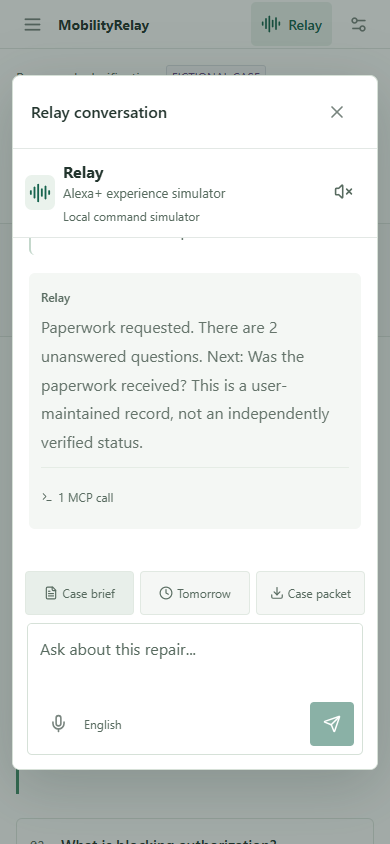
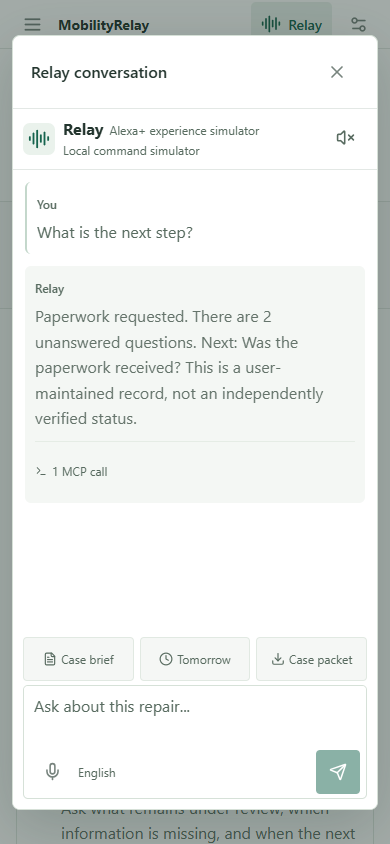
Compact workspace and prioritize Relay conversation

diff --git a/src/styles.css b/src/styles.css
@@ -21,7 +21,7 @@ h1, h2, h3, p { margin-top: 0; }
 .icon-button:hover:not(:disabled) { background: #eaf0ec; color: var(--green); }
 .text-button { display: inline-flex; align-items: center; justify-content: center; gap: 5px; background: transparent; color: var(--green); padding: 6px 0; font-size: 14px; font-weight: 600; }
 .text-button:hover:not(:disabled) { text-decoration: underline; }
-.app-shell { display: grid; grid-template-columns: 246px minmax(0,1fr); min-height: 100vh; }
+.app-shell { display: grid; grid-template-columns: 228px minmax(0,1fr); min-height: 100vh; }
 .sidebar { background: #f5f7f5; border-right: 1px solid var(--line); padding: 25px 16px 16px; display: flex; flex-direction: column; position: sticky; top: 0; height: 100vh; overflow-y: auto; }
 .brand { display: flex; gap: 9px; align-items: center; min-width: 0; }
 .brand-mark { width: 40px; height: 40px; flex: 0 0 40px; display: inline-flex; align-items: center; justify-content: center; color: #fff; background: var(--green); border-radius: 7px; }
@@ -53,14 +53,14 @@ h1, h2, h3, p { margin-top: 0; }
 .local-status > span:nth-child(2) { flex: 1; }
 .local-status small { display: block; font-size: 13px; color: #96a097; margin-top: 4px; }
 .workspace { min-width: 0; }
-.topbar { min-height: 60px; padding: 10px 32px; border-bottom: 1px solid var(--line); display: flex; align-items: center; justify-content: space-between; gap: 12px; font-size: 14px; color: #849087; }
+.topbar { min-height: 60px; padding: 10px 24px; border-bottom: 1px solid var(--line); display: flex; align-items: center; justify-content: space-between; gap: 12px; font-size: 14px; color: #849087; }
 .topbar > div { display: flex; align-items: center; gap: 12px; min-width: 0; }
 .topbar > div:first-child { flex: 1; }
 .topbar > div:last-child { flex: 0 0 auto; }
 .mobile-brand { flex: 0 0 auto; }
 .topbar strong { font-weight: 500; color: #43594b; overflow-wrap: anywhere; }
 .mcp-status { display: flex; align-items: center; gap: 6px; white-space: nowrap; }
-.case-heading { display: flex; align-items: center; justify-content: space-between; padding: 29px 32px 24px; gap: 20px; }
+.case-heading { display: flex; align-items: center; justify-content: space-between; padding: 29px 24px 24px; gap: 20px; }
 .case-heading > div:first-child { min-width: 0; }
 .eyebrow { display: flex; gap: 10px; align-items: center; flex-wrap: wrap; font-size: 14px; color: #76877c; margin-bottom: 10px; }
 .fictional-badge { font-size: 12px; padding: 3px 5px; border: 1px solid #dcdfe6; border-radius: 3px; color: #857898; background: #faf8fc; }
@@ -70,13 +70,13 @@ h1, h2, h3, p { margin-top: 0; }
 .person-initial { width: 20px; height: 20px; display: inline-flex; align-items: center; justify-content: center; background: #efeaf6; border-radius: 50%; color: #7d6899; font-size: 13px; }
 .separator { margin: 0 3px; color: #c3cac3; }
 .heading-actions { display: flex; gap: 9px; flex: 0 0 auto; }
-.case-metrics { display: grid; grid-template-columns: 1.35fr 1fr 1fr 1fr; padding: 20px 32px; background: #fbfcfb; border-top: 1px solid var(--line); border-bottom: 1px solid var(--line); gap: 22px; }
+.case-metrics { display: grid; grid-template-columns: 1.35fr 1fr 1fr 1fr; padding: 20px 24px; background: #fbfcfb; border-top: 1px solid var(--line); border-bottom: 1px solid var(--line); gap: 22px; }
 .case-metrics > div { border-right: 1px solid var(--line); padding-right: 18px; min-width: 0; }
 .case-metrics > div:last-child { border-right: none; }
 .case-metrics > div > span { display: block; font-size: 13px; color: #829086; margin-bottom: 9px; }
 .case-metrics strong { font-size: 16px; font-weight: 600; display: flex; gap: 8px; align-items: baseline; flex-wrap: wrap; line-height: 1.6; }
 .case-metrics small { font-size: 13px; color: #8b978e; font-weight: 400; }
-.content-layout { display: grid; grid-template-columns: minmax(0,1fr) 330px; gap: 28px; padding: 0 32px 30px; align-items: start; }
+.content-layout { display: grid; grid-template-columns: minmax(0,1fr) 340px; gap: 20px; padding: 0 24px 30px; align-items: start; }
 .case-content { min-width: 0; }
 .tabs { display: flex; gap: 22px; border-bottom: 1px solid var(--line); min-height: 58px; margin-bottom: 25px; overflow-x: auto; }
 .tabs button { background: none; border-bottom: 2px solid transparent; padding: 18px 0 15px; font-size: 14px; white-space: nowrap; display: flex; gap: 6px; align-items: center; color: #7d8980; }
@@ -147,10 +147,10 @@ h1, h2, h3, p { margin-top: 0; }
 .assistant-heading .simulator-label { display: block; font-size: 14px; line-height: 1.5; color: #586c60; margin-bottom: 3px; overflow-wrap: anywhere; }
 .conversation { overflow-y: auto; flex: 1; padding: 16px; min-height: 180px; }
 .assistant-empty p { font-size: 14px; color: #93a198; }
-.message { margin-bottom: 18px; padding: 12px 12px 10px; background: #f4f7f4; border-radius: 6px; overflow-wrap: anywhere; }
+.message { margin-bottom: 12px; padding: 10px; background: #f4f7f4; border-radius: 6px; overflow-wrap: anywhere; }
 .message.message-user { background: #fff; border-left: 2px solid #c3d7cb; padding-left: 10px; }
 .message-author { font-size: 12px; color: #84a08b; font-weight: 600; }
-.message p { font-size: 14px; color: #54705e; line-height: 1.8; margin: 7px 0 0; white-space: pre-wrap; }
+.message p { font-size: 14px; color: #54705e; line-height: 1.6; margin: 6px 0 0; white-space: pre-wrap; }
 .message.message-user p { color: var(--muted); }
 .tool-trace { margin-top: 10px; border-top: 1px solid #e5ece5; padding-top: 7px; color: #8b9b90; font-size: 12px; }
 .tool-trace summary { display: flex; gap: 5px; align-items: center; cursor: pointer; font-size: 12px; }
@@ -275,7 +275,7 @@ h1, h2, h3, p { margin-top: 0; }
 .case-footer .text-button { color: #874c45; }
 .mode-notice.warning { color: #79550e; }
 input::placeholder, textarea::placeholder { color: var(--muted); }
-@media (min-width: 1600px) { .content-layout { grid-template-columns: minmax(0,1fr) 360px; gap: 40px; } .workspace { max-width: 1800px; } }
+@media (min-width: 1600px) { .content-layout { grid-template-columns: minmax(0,1fr) 360px; gap: 24px; } .workspace { max-width: 1800px; } }
 @media (max-width: 1200px) { .app-shell { grid-template-columns: 220px minmax(0,1fr); } .content-layout { gap: 20px; padding: 0 24px 24px; grid-template-columns: minmax(0,1fr) 292px; } .topbar, .case-heading { padding-left: 24px; padding-right: 24px; } .case-metrics { padding-left: 24px; padding-right: 24px; gap: 15px; } .case-heading { flex-wrap: wrap; } .tabs { gap: 15px; } .assistant-commands { padding: 10px; } .question-actions { gap: 7px; } }
 @media (max-width: 1000px) { .content-layout { grid-template-columns: minmax(0,1fr); } .assistant { position: static; height: 520px; max-height: none; margin-top: 0; } .case-metrics { grid-template-columns: 1fr 1fr; row-gap: 20px; } .case-metrics > div:nth-child(2) { border-right: 0; } .question-item p { font-size: 14px; } }
 @media (max-width: 760px) { .app-shell { grid-template-columns: minmax(0,1fr); } .sidebar { display: none; } .sidebar.mobile-open { display: flex; position: fixed; z-index: 30; width: 280px; left: 0; top: 0; height: 100dvh; } .sidebar-scrim { display: block; position: fixed; inset: 0; background: #19342666; z-index: 29; } .mobile-only { display: inline-flex; } .brand .mobile-only { margin-left: auto; } .topbar { padding: 9px 16px; gap: 8px; font-size: 13px; } .topbar > div { gap: 7px; } .mcp-status { font-size: 12px; } .case-heading { padding: 24px 20px 22px; gap: 20px; } .case-heading h1 { font-size: 26px; } .heading-actions { width: 100%; } .heading-actions > button { flex: 1; font-size: 14px; } .case-metrics { padding: 18px 20px; column-gap: 15px; } .case-metrics strong { font-size: 15px; } .case-metrics small { font-size: 12px; } .case-metrics > div { padding-right: 10px; } .content-layout { padding: 0 20px 25px; gap: 22px; } .tabs { gap: 22px; margin-bottom: 23px; } .tabs button { font-size: 14px; min-height: 54px; } .next-step { padding-left: 14px; } .next-step h2 { font-size: 20px; } .question-item { padding: 15px 13px; gap: 9px; } .question-actions > button:not(.icon-button) { font-size: 13px; } .question-actions .icon-button { width: 36px; height: 36px; flex-basis: 36px; } .question-actions > button:first-child { margin-right: 0; } .section-title .text-button { font-size: 13px; } .evidence-top { flex-direction: column; gap: 5px; } .evidence-bottom { flex-wrap: wrap; } .request-row { flex-wrap: wrap; gap: 9px; } .request-row > span:nth-child(2) { flex-basis: calc(100% - 45px); } .request-row > .status-badge { margin-left: 32px; } .request-row > svg:last-child { margin-left: auto; } .contact-row { flex-wrap: wrap; } .contact-role { text-align: left; margin-left: 47px; } .contact-row > svg:last-child { margin-left: auto; } .followup-row { flex-wrap: wrap; gap: 9px; } .followup-row > div { flex-basis: calc(100% - 45px); } .followup-row > .icon-button:first-of-type { margin-left: 31px; } .alert { margin: 12px 20px 0; } .modal { max-width: calc(100vw - 24px); max-height: calc(100dvh - 24px); } .dialog-form, .settings-content { padding: 18px; } .form-grid { grid-template-columns: 1fr; gap: 0; } .request-footer { flex-wrap: wrap; } .assistant { height: 530px; } .message p { font-size: 15px; } .assistant-commands button { font-size: 13px; } .modal-header { padding: 14px 18px; } .modal-header h2 { font-size: 16px; } }
@@ -367,22 +367,24 @@ input::placeholder, textarea::placeholder { color: var(--muted); }
 .sidebar-bottom { margin-top: 0; padding-top: 8px; }
 .local-status { padding-top: 10px; margin-top: 4px; }
 .topbar { min-height: 48px; padding-block: 2px; }
-.case-heading { padding-block: 12px; gap: 14px; }
+.case-heading { padding-block: 10px; gap: 14px; }
 .case-heading h1 { margin-bottom: 4px; font-size: 24px; }
 .eyebrow { margin-bottom: 4px; }
 .heading-actions > .compact-action { flex: 0 0 44px; min-width: 44px; width: 44px; padding: 0; }
-.case-metrics { padding-block: 8px; gap: 12px; }
+.case-metrics { padding-block: 6px; gap: 12px; }
 .case-metrics > div > span { margin-bottom: 3px; }
 .case-metrics strong { line-height: 1.4; }
-.content-layout { gap: 24px; }
+.content-layout { gap: 20px; }
 .content-layout.relay-drawer-layout { grid-template-columns: minmax(0, 1fr); }
-.tabs { min-height: 48px; margin-bottom: 14px; }
+.tabs { min-height: 48px; margin-bottom: 10px; }
 .tabs button { padding-block: 12px 10px; }
-.questions > .section-title { margin-bottom: 10px; }
-.question-item.next-step { padding-top: 4px; }
+.questions > .section-title { margin-bottom: 8px; }
+.question-item.next-step { padding: 4px 0 12px 14px; margin-bottom: 16px; }
 .question-item.next-step h2 { font-size: 20px; line-height: 1.4; margin-bottom: 8px; }
-.question-item p { line-height: 1.6; }
-.section-kicker { margin-bottom: 7px; }
+.question-item p { line-height: 1.55; }
+.question-item .source-links { margin: 6px 0 0; }
+.question-actions { padding-top: 8px; }
+.section-kicker { margin-bottom: 4px; }
 .question-actions > button.primary { background: var(--green); color: #fff; padding: 10px 14px; border: 1px solid var(--green); }
 .question-actions > .primary:hover:not(:disabled) { background: var(--green-dark); color: #fff; }
 .empty-state > .primary { margin-top: 12px; }
@@ -402,28 +404,34 @@ input::placeholder, textarea::placeholder { color: var(--muted); }
 .evidence-disclosure { margin-top: 20px; }
 .relay-launch { min-height: 44px; display: inline-flex; align-items: center; gap: 7px; padding: 8px 10px; border-radius: 5px; background: #eaf2ec; color: var(--green); font-size: 14px; font-weight: 600; }
 .relay-launch:hover { background: #dcebe2; }
-.assistant { height: var(--relay-height, min(560px, calc(100dvh - 250px))); max-height: calc(100dvh - 24px); margin-top: 16px; top: 12px; }
+.assistant { height: var(--relay-height, min(700px, calc(100dvh - 250px))); max-height: calc(100dvh - 24px); margin-top: 12px; top: 12px; }
 .assistant-heading, .assistant-commands, .cloud-consent, .composer { flex-shrink: 0; }
-.assistant-heading { padding: 12px; gap: 8px; }
-.assistant-heading h2 { margin-bottom: 2px; }
-.assistant-heading .simulator-label { font-size: 13px; line-height: 1.4; margin-bottom: 2px; }
-.assistant-commands { padding: 8px 12px; gap: 6px; flex-wrap: nowrap; }
+.assistant-heading { padding: 8px 10px; gap: 8px; }
+.assistant-heading .relay-icon { flex: 0 0 32px; width: 32px; height: 32px; }
+.assistant-heading h2 { display: inline; margin: 0 6px 0 0; }
+.assistant-heading .simulator-label { display: inline; font-size: 12px; line-height: 1.4; margin: 0; }
+.assistant-heading > div:nth-child(2) > span:last-child { display: block; margin-top: 3px; line-height: 1.4; overflow-wrap: anywhere; }
+.assistant-commands { padding: 4px 10px; gap: 6px; flex-wrap: nowrap; }
 .assistant-commands button { flex: 1; min-width: 0; justify-content: center; padding: 8px 4px; gap: 4px; font-size: 12px; }
-.conversation { min-height: 48px; }
+.conversation { padding: 12px; min-height: 48px; }
 .conversation.is-empty { display: flex; align-items: center; justify-content: center; padding: 8px 12px; min-height: 40px; }
 .assistant-empty { margin: 0; padding: 0; color: var(--muted); font-size: 14px; line-height: 20px; text-align: center; }
-.composer textarea { height: 72px; min-height: 72px; max-height: 72px; resize: none; }
-.modal .assistant { height: min(620px, calc(100dvh - 112px)); max-height: calc(100dvh - 112px); }
+.composer { margin: 0 10px 10px; }
+.composer textarea { display: block; height: 64px; min-height: 64px; max-height: 64px; padding: 8px 10px; line-height: 1.5; resize: none; }
+.composer-bottom { padding: 0 6px 4px; }
+.modal .assistant { height: min(700px, calc(100dvh - 112px)); max-height: calc(100dvh - 112px); }
 @media (max-width: 760px) {
-  .case-heading { padding: 16px; gap: 14px; }
+  .case-heading { padding: 8px 16px; gap: 8px; }
   .case-heading h1 { font-size: 24px; }
   .heading-actions { gap: 8px; }
   .heading-actions > .compact-action { flex: 0 0 44px; min-width: 44px; width: 44px; padding: 0; }
   .compact-action > span { display: none; }
   .heading-actions > button:not(.compact-action) { flex: 1; min-width: 0; }
-  .case-metrics { padding: 10px 16px; gap: 10px 14px; }
+  .case-metrics { padding: 8px 16px; gap: 8px 14px; }
+  .case-metrics strong { gap: 4px; }
   .case-metrics small { font-size: 13px; }
   .content-layout { padding: 0 16px 24px; }
+  .tabs { margin-bottom: 8px; }
   .topbar { padding-inline: 10px; }
   .topbar > div:first-child > strong { display: none; }
   .topbar > div:first-child > svg { display: none; }
@@ -431,6 +439,10 @@ input::placeholder, textarea::placeholder { color: var(--muted); }
   .reported-sources summary h2 { flex-basis: calc(100% - 30px); }
   .reported-sources summary span { margin-left: 0; order: 2; }
   .reported-sources summary svg { margin-left: auto; }
+}
+@media (max-width: 480px) {
+  .evidence-shortcut { width: 44px; height: 44px; flex: 0 0 44px; padding: 0; }
+  .evidence-shortcut > span { display: none; }
 }
 @media (max-height: 600px) {
   .modal .assistant .assistant-commands { display: none; }

diff --git a/tests/qa.spec.ts b/tests/qa.spec.ts
@@ -71,6 +71,49 @@ test('compact assessment workspace keeps icon commands accessible and the empty 
   }
 });
 
+test('compact spacing prioritizes conversation space without shrinking reading text or action targets', async ({ page }, info) => {
+  test.setTimeout(120000);
+  const measurements = [];
+  for (const viewport of [{ width: 1248, height: 680 }, { width: 1440, height: 1000 }, { width: 1920, height: 1080 }, { width: 390, height: 844 }, { width: 320, height: 700 }, { width: 1366, height: 600 }]) {
+    await page.setViewportSize(viewport); await page.goto('/');
+    await expect(page.getByRole('heading', { name: 'Power chair repair', exact: true })).toBeVisible();
+    const prepare = page.locator('.question-item.next-step').getByRole('button', { name: 'Prepare a request', exact: true });
+    await expect(prepare).toBeInViewport({ ratio: 1 });
+    await expect(page.locator('.question-item.next-step p')).toHaveCSS('font-size', '16px');
+    expect(await page.evaluate(() => document.documentElement.scrollWidth <= innerWidth)).toBe(true);
+    const drawer = viewport.width <= 1000 || viewport.height <= 600;
+    if (drawer) await page.getByRole('button', { name: 'Open Relay', exact: true }).click();
+    const assistant = page.getByRole('complementary', { name: 'Simulated Alexa+ repair conversation', exact: true });
+    const input = assistant.getByRole('textbox', { name: 'Message to Relay', exact: true });
+    await expect(input).toBeInViewport({ ratio: 1 }); await expect(input).toHaveCSS('font-size', '16px');
+    for (const name of ['Send message', 'Enable spoken responses', 'Case brief', 'Tomorrow', 'Case packet']) {
+      const control = assistant.getByRole('button', { name, exact: true });
+      if (viewport.height <= 600 && ['Case brief', 'Tomorrow', 'Case packet'].includes(name)) { await expect(control).not.toBeVisible(); continue; }
+      await expect(control).toBeInViewport({ ratio: 1 });
+      const bounds = (await control.boundingBox())!; expect(bounds.width).toBeGreaterThanOrEqual(44); expect(bounds.height).toBeGreaterThanOrEqual(44);
+    }
+    const layout = await assistant.evaluate(element => {
+      const box = (selector: string) => { const r = element.querySelector(selector)!.getBoundingClientRect(); return { top: r.top, bottom: r.bottom, width: r.width, height: r.height }; };
+      return { heading: box('.assistant-heading'), conversation: box('.conversation'), commands: box('.assistant-commands'), composer: box('.composer'), fits: element.scrollWidth <= element.clientWidth };
+    });
+    expect(layout.fits).toBe(true);
+    expect(layout.heading.bottom).toBeLessThanOrEqual(layout.conversation.top + 1);
+    expect(layout.conversation.bottom).toBeLessThanOrEqual((viewport.height <= 600 ? layout.composer : layout.commands).top + 1);
+    expect(layout.composer.height).toBeLessThanOrEqual(116);
+    expect(layout.conversation.height).toBeGreaterThanOrEqual(drawer ? 96 : viewport.height === 680 ? 200 : 400);
+    if (!drawer) {
+      expect((await page.locator('.sidebar').boundingBox())!.width).toBe(228);
+      expect(layout.heading.height).toBeLessThanOrEqual(68);
+      expect((await page.locator('.question-item.next-step').boundingBox())!.height).toBeLessThanOrEqual(236);
+    }
+    expect((await new AxeBuilder({ page }).withTags(['wcag2a', 'wcag2aa', 'wcag21a', 'wcag21aa']).analyze()).violations).toEqual([]);
+    await page.screenshot({ path: `.data/screenshots/${info.project.name}-density-${viewport.width}x${viewport.height}.png` });
+    measurements.push({ viewport, drawer, ...layout });
+  }
+  await mkdir('.data/verification/layout-density-2026-10-22', { recursive: true });
+  await writeFile(`.data/verification/layout-density-2026-10-22/${info.project.name}.json`, JSON.stringify(measurements, null, 2));
+});
+
 test('next action and Relay input fit the first screen across desktop, tablet and mobile', async ({ page }, info) => {
   test.setTimeout(120000);
   for (const viewport of [{ width: 1248, height: 680 }, { width: 1440, height: 900 }, { width: 768, height: 900 }, { width: 390, height: 844 }, { width: 1366, height: 600 }]) {

diff --git a/src/App.tsx b/src/App.tsx
@@ -121,7 +121,7 @@ export default function App() {
         <div className="case-metrics"><div><span>Reported stage</span><strong>{brief.reportedStage}</strong></div><div><span>Unanswered questions</span><strong>{open.length.toString().padStart(2, '0')}<small>{answered.length} answered</small></strong></div><div><span>Recorded sources</span><strong>{brief.events.length.toString().padStart(2, '0')}<small>Attributed updates</small></strong></div><div><span>Next follow-up</span><strong>{scheduled[0] ? time(scheduled[0].dueAt, scheduled[0].timezone) : 'Not scheduled'}{scheduled[0] && <small>{scheduled[0].timezone}</small>}</strong></div></div>
         <div className={`content-layout ${mobile ? 'relay-drawer-layout' : ''}`}><main className="case-content"><div className="tabs" role="tablist" aria-label="Case views">{(['Overview', 'Evidence', 'Requests', 'Follow-ups', 'Contacts'] as Tab[]).map(t => <button key={t} role="tab" aria-selected={tab === t} className={tab === t ? 'active' : ''} onClick={() => setTab(t)}>{t}{t === 'Requests' && drafts.length > 0 && <span>{drafts.length}</span>}</button>)}</div>
           {tab === 'Overview' && <>
-            <section className="questions"><div className="section-title"><h2>Unanswered questions <span>{open.length}</span></h2><button className="text-button" onClick={() => setTab('Evidence')}>View evidence <ChevronRight size={15} /></button></div>
+            <section className="questions"><div className="section-title"><h2>Unanswered questions <span>{open.length}</span></h2><button className="text-button evidence-shortcut" aria-label="View evidence" title="View evidence" onClick={() => setTab('Evidence')}><FileText size={16} /><span>View evidence</span></button></div>
               {contactPrompt}
               {!open.length && <div className="empty-state">{!brief.events.length ? <><FileText size={28} aria-hidden="true" /><h3>No repair updates yet</h3>{firstUpdate}</> : <><CheckCircle2 size={23} /><h3>No open questions recorded</h3><p>This does not confirm a completed repair.</p></>}</div>}
               {open.map((q, index) => <article className={`question-item ${index === 0 ? 'next-step' : ''}`} key={q.id}><span className="question-number">{(index + 1).toString().padStart(2, '0')}</span><div>{index === 0 ? <><div className="section-kicker"><span className="status-dot" /> NEXT STEP</div><h2>{q.title}</h2></> : <h3>{q.title}</h3>}<p>{q.explanation}</p><div className="question-actions"><button className={index === 0 ? 'primary' : undefined} onClick={() => setDialog({ type: 'prepare', questionId: q.id })} disabled={busy || !brief.contacts.length}><Mail size={16} /> {index === 0 ? 'Prepare a request' : 'Request clarification'}</button><button onClick={() => setDialog({ type: 'answer', question: q })} disabled={busy}><Check size={14} /> Record answer</button><IconButton label={`Schedule follow-up: ${q.title}`} onClick={() => setDialog({ type: 'followup', questionId: q.id })} disabled={busy}><CalendarClock size={16} /></IconButton></div><div className="source-links">{q.sourceIds.map(id => <button key={id} title={brief.events.find(event => event.id === id)?.source} onClick={() => showSource(id)}><FileText size={14} /> {sourceLabels.get(id) ?? 'Source unavailable'}</button>)}</div></div></article>)}

diff --git a/src/components.tsx b/src/components.tsx
@@ -72,7 +72,7 @@ export function Assistant({ messages, busy, suspended = false, settings, onSend,
     const element = panel.current;
     if (!element || element.closest('dialog')) return;
     // Fit the composer below the actual header, including wrapped titles or notices.
-    const fit = () => element.style.setProperty('--relay-height', `${Math.max(200, Math.min(560, innerHeight - Math.max(12, element.getBoundingClientRect().top) - 16))}px`);
+    const fit = () => element.style.setProperty('--relay-height', `${Math.max(200, Math.min(700, innerHeight - Math.max(12, element.getBoundingClientRect().top) - 16))}px`);
     const observer = new ResizeObserver(fit);
     for (const target of document.querySelectorAll('.workspace, .case-heading, .case-metrics, .topbar, .alert')) observer.observe(target);
     window.addEventListener('resize', fit); window.addEventListener('scroll', fit, { passive: true }); fit();

diff --git a/docs/project-guide.md b/docs/project-guide.md
@@ -444,6 +444,46 @@ not establish the native toolkit's sub-500 ms query target.
 
 ## 4. Testing and Latest Results
 
+### Compact Layout Pass: October 22
+
+Narrowed the desktop sidebar from 246px to 228px, tightened workspace padding
+and reduced the leading question's excess spacing. Relay now uses a compact
+title/provider header, a smaller two-line composer and a responsive height cap
+of 700px instead of 560px. It still fits below the actual case header; short
+windows and mobile use the conversation dialog. Main reading text remains
+16px and primary, voice, send and shortcut targets remain at least 44px.
+At 320px, **View evidence** becomes a familiar file icon with an accessible
+name and tooltip, avoiding an extra header row. Reduced mobile header/metric
+spacing keeps **Prepare a request** visible at 320x700 without hiding reports
+or shrinking reading text. No repair rules, approval or AI logic changed.
+
+Measured with the same fictional case and browser viewport before/after:
+
+| Viewport | Previous conversation height | New conversation height |
+| --- | --- | --- |
+| 1248x680 | 133px | 203px |
+| 1440x1000 | 263px | 461px |
+
+These are layout measurements, not user outcomes or audio/model performance.
+`npm run check` passed the production build and **188 backend tests**; a final
+production build/typecheck also passed after the narrow-screen correction.
+The new dedicated Edge check passed **2/2 projects in 59.2 seconds**, each
+covering 1248x680, 1440x1000, 1920x1080, 390x844, 320x700 and 1366x600.
+It checks visible actions/input, conversation capacity, text sizes, 44px targets,
+nonoverlapping regions, no horizontal overflow and automated accessibility.
+Measurements are saved in ignored `.data/verification/layout-density-2026-10-22/`.
+Desktop and narrow Relay screenshots were visually inspected. README images
+use a separate in-memory fictional server with real MCP reads and no delivery.
+
+The first exploratory run found the 320px action below the fold; that was fixed
+in the UI, not by weakening the assertion. A separate branding check timed out
+waiting for the case to load while another screenshot server was running; its
+cause was not established. The longer rerun was stopped after three passing
+desktop checks when the user requested a faster finish. It was not a completed
+32-check run, and the branding load timeout was not fully reinvestigated.
+The full browser suite, physical audio, independent usability, fresh install,
+Docker, actual SMTP and native Alexa+ were not reverified by this layout pass.
+
 ### Message Wording and Readable Sources: October 22
 
 Updated newly prepared messages to address the recipient directly instead of

diff --git a/README.md b/README.md
@@ -80,6 +80,9 @@ app or a population estimate for all wheelchair users.
 The selected case survives reload in the same browser tab. New cases show a
 **Record first update** action; a missing recipient contact has a direct
 **Add contact** action beside the blocked request workflow.
+The compact desktop layout gives more space to the conversation, with a narrower
+sidebar and less header padding. Main reading text remains 16px and primary
+controls retain 44px targets. Narrow screens use a labelled evidence icon.
 New drafts ask the recipient direct questions rather than copying workspace
 instructions. Reviewed answers use readable source numbers linked to Evidence;
 technical record IDs remain available under **Record details**.
@@ -176,7 +179,7 @@ Windows, Node 24.11.0 and installed Microsoft Edge.
 | --- | --- |
 | TypeScript and production build | Passed. |
 | Backend | **188 tests passed**, including real HTTP/MCP calls, recipient-facing wording, separate spoken report text, provenance, approval, reply review and export integrity. Test files run sequentially; explicit concurrency checks remain covered. |
-| Browser workflows | **100 regression checks passed** in the full run; **both new playback checks passed** after isolating their fictional test case. Coverage includes source navigation, request wording, speech lifecycle, approval, persistence, case isolation, responsive layout and accessibility. The initial test-fixture failure and separate rerun are recorded in the guide; this was not a single clean 102-check run. |
+| Browser workflows | **Both desktop/mobile density checks passed** across six viewport sizes each, including 320x700: conversation space, visible actions/input, 16px reading text, 44px targets and axe checks. The broader regression rerun was stopped at the user's request for speed; historical results and remaining limits are recorded in the guide. |
 | Accessibility and responsive layout | No automated violations in tested states. Keyboard focus, readable text, 44px header icon controls and desktop/mobile layout checks passed. |
 
 ```sh
